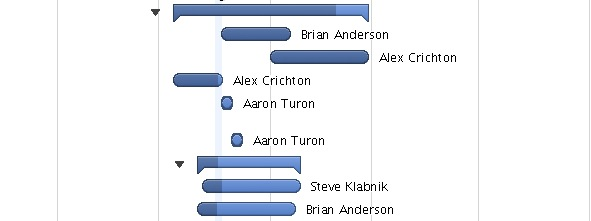
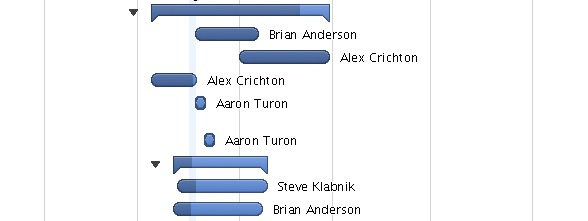
wip

diff --git a/Rust_Baseline.html b/Rust_Baseline.html
@@ -28,8 +28,8 @@
             <tr class="taskTypeGroup">
                 <td style="padding-left: 08px;" class="wrap">0) Rust_Baseline</td>
                 <td>4/25/14</td>
-                <td>10/23/14</td>
-                <td>26w</td>
+                <td>11/10/14</td>
+                <td>28w 2d</td>
                 <td>40%</td>
                 <td></td>
                 <td align="right"></td>
@@ -45,8 +45,8 @@
             <tr class="taskTypeGroup">
                 <td style="padding-left: 18px;" class="wrap">1) Language</td>
                 <td>4/25/14</td>
-                <td>10/23/14</td>
-                <td>26w</td>
+                <td>11/10/14</td>
+                <td>28w 2d</td>
                 <td>37%</td>
                 <td></td>
                 <td align="right"></td>
@@ -55,7 +55,7 @@
                 <td>&lt; -2d 5.75h</td>
                 <td></td>
                 <td>10/14/14</td>
-                <td>1w 2d</td>
+                <td>3w 4d</td>
                 <td></td>
             </tr>
             
@@ -79,8 +79,8 @@
             <tr class="taskTypeGroup">
                 <td style="padding-left: 28px;" class="wrap">1.2) #12938 DST</td>
                 <td>5/28/14</td>
-                <td>10/14/14</td>
-                <td>20w</td>
+                <td>11/10/14</td>
+                <td>23w 4d</td>
                 <td>54%</td>
                 <td></td>
                 <td align="right"></td>
@@ -89,7 +89,7 @@
                 <td>2w</td>
                 <td>4/21/14</td>
                 <td>8/7/14</td>
-                <td>9w 3d</td>
+                <td>13w 2d</td>
                 <td></td>
             </tr>
             
@@ -401,8 +401,8 @@
             
             <tr class="taskTypeTask">
                 <td style="padding-left: 38px;" class="wrap">1.2.19) ? Recursive coercions</td>
-                <td>7/23/14</td>
-                <td>9/16/14</td>
+                <td>8/19/14</td>
+                <td>10/13/14</td>
                 <td>8w</td>
                 <td>0%</td>
                 <td></td>
@@ -418,8 +418,8 @@
             
             <tr class="taskTypeTask">
                 <td style="padding-left: 38px;" class="wrap">1.2.20) ? Fat raw pointers</td>
-                <td>9/17/14</td>
                 <td>10/14/14</td>
+                <td>11/10/14</td>
                 <td>4w</td>
                 <td>0%</td>
                 <td></td>
@@ -775,11 +775,11 @@
             
             <tr class="taskTypeTask">
                 <td style="padding-left: 28px;" class="wrap">1.17) #15349 Remove cross-borrowing</td>
-                <td>7/17/14</td>
-                <td>7/17/14</td>
+                <td>9/10/14</td>
+                <td>9/10/14</td>
                 <td>0h</td>
                 <td>100%</td>
-                <td>1.2SF</td>
+                <td>1.2.18</td>
                 <td align="right"></td>
                 <td>Patrick Walton</td>
                 <td></td>

diff --git a/Rust_BaselineResources.html b/Rust_BaselineResources.html
@@ -20,7 +20,7 @@
             <tr class="resource Staff">
                 <td style="padding-left: 10px;">Patrick Walton</td>
                 <td>5/14/14</td>
-                <td>8/18/14</td>
+                <td>9/10/14</td>
                 <td>9w 1d</td>
                 <td>63%</td>
                 <td align="right"></td>
@@ -54,20 +54,20 @@
             </tr>
             
             <tr>
-                <td style="padding-left: 18px;" class="wrap taskTypeTask">#15349 Remove cross-borrowing</td> 
-                <td>7/17/14</td>
-                <td>7/17/14</td>
-                <td>0h</td>
-                <td>100%</td>
-                <td align="right"></td>
-            </tr>
-            
-            <tr>
                 <td style="padding-left: 18px;" class="wrap taskTypeTask">#15552 lifetime elision</td> 
                 <td>7/18/14</td>
                 <td>7/21/14</td>
                 <td>2d</td>
                 <td>0%</td>
+                <td align="right"></td>
+            </tr>
+            
+            <tr>
+                <td style="padding-left: 18px;" class="wrap taskTypeTask">#15349 Remove cross-borrowing</td> 
+                <td>9/10/14</td>
+                <td>9/10/14</td>
+                <td>0h</td>
+                <td>100%</td>
                 <td align="right"></td>
             </tr>
             
@@ -268,7 +268,7 @@
             <tr class="resource Staff">
                 <td style="padding-left: 10px;">Nick Cameron</td>
                 <td>5/28/14</td>
-                <td>10/14/14</td>
+                <td>11/10/14</td>
                 <td>24w 4d</td>
                 <td>49%</td>
                 <td align="right"></td>
@@ -401,15 +401,6 @@
             </tr>
             
             <tr>
-                <td style="padding-left: 18px;" class="wrap taskTypeTask">? Recursive coercions</td> 
-                <td>7/23/14</td>
-                <td>9/16/14</td>
-                <td>8w</td>
-                <td>0%</td>
-                <td align="right"></td>
-            </tr>
-            
-            <tr>
                 <td style="padding-left: 18px;" class="wrap taskTypeTask">? DST coercions in method lookup</td> 
                 <td>8/15/14</td>
                 <td>8/18/14</td>
@@ -419,9 +410,18 @@
             </tr>
             
             <tr>
+                <td style="padding-left: 18px;" class="wrap taskTypeTask">? Recursive coercions</td> 
+                <td>8/19/14</td>
+                <td>10/13/14</td>
+                <td>8w</td>
+                <td>0%</td>
+                <td align="right"></td>
+            </tr>
+            
+            <tr>
                 <td style="padding-left: 18px;" class="wrap taskTypeTask">? Fat raw pointers</td> 
-                <td>9/17/14</td>
                 <td>10/14/14</td>
+                <td>11/10/14</td>
                 <td>4w</td>
                 <td>0%</td>
                 <td align="right"></td>

diff --git a/Rust_BaselineGantt.html b/Rust_BaselineGantt.html
@@ -1,14 +1,14 @@
 <html><body><table border="0" cellspacing="0" cellpadding="0">
 <tr>
-	<td><img src="include/gantt0,0.jpg?nocacheTag=-1629985993" border=0/></td>
-	<td><img src="include/gantt1,0.jpg?nocacheTag=981644903" border=0/></td>
+	<td><img src="include/gantt0,0.jpg?nocacheTag=657123269" border=0/></td>
+	<td><img src="include/gantt1,0.jpg?nocacheTag=1390649839" border=0/></td>
 </tr>
 <tr>
-	<td><img src="include/gantt0,1.jpg?nocacheTag=1983183659" border=0/></td>
-	<td><img src="include/gantt1,1.jpg?nocacheTag=-771603914" border=0/></td>
+	<td><img src="include/gantt0,1.jpg?nocacheTag=-1300897898" border=0/></td>
+	<td><img src="include/gantt1,1.jpg?nocacheTag=-1476838171" border=0/></td>
 </tr>
 <tr>
-	<td><img src="include/gantt0,2.jpg?nocacheTag=512258878" border=0/></td>
-	<td><img src="include/gantt1,2.jpg?nocacheTag=37364518" border=0/></td>
+	<td><img src="include/gantt0,2.jpg?nocacheTag=-114883053" border=0/></td>
+	<td><img src="include/gantt1,2.jpg?nocacheTag=-866012320" border=0/></td>
 </tr>
 </table></body></html>

diff --git a/index.html b/index.html
@@ -248,8 +248,8 @@ img.icon
                     </tr>
                     <tr>
                         <td class="data-content-big">4/21/14</td>
-                        <td class="data-content-big">10/23/14</td>
-                        <td class="data-content-big">-16w 3d</td>
+                        <td class="data-content-big">11/10/14</td>
+                        <td class="data-content-big">-14w 1d</td>
                         <td class="data-content-big"></td>
                         <td class="data-content-big">40%</td>
                     </tr>
